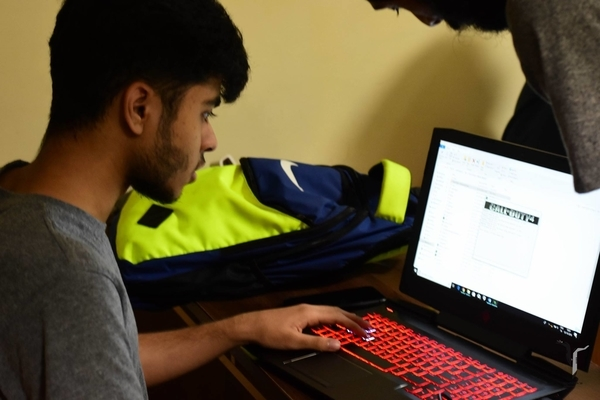
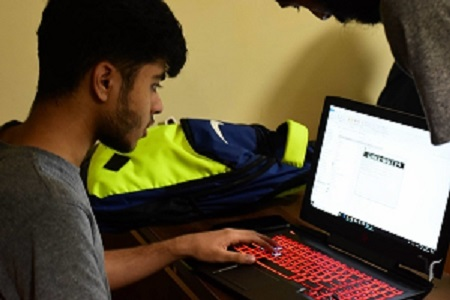
changes, optimisation

diff --git a/index.html b/index.html
@@ -1,14 +1,13 @@
 <html>
-<meta charset="utf-8">
-	<meta http-equiv="X-UA-Compatible" content="IE=edge">
-	<meta name="viewport" content="width=device-width, initial-scale=1.0">
+<meta name="viewport" content="width=device-width, initial-scale=1.0">
+<meta http-equiv="X-UA-Compatible" content="IE=edge">
 <link href="https://fonts.googleapis.com/css?family=Work+Sans:200,700,800&display=swap" rel="stylesheet">
 <title>
 	Arpan Nagar
 </title>
 
 <link rel="stylesheet" type="text/css" href="styles.css">
-<div class="img"> <img src="./me2.jpg" alt="Arpan Nagar" width="400" height="400">
+<div class="img1"> <img src="./me2.jpg" alt="Arpan Nagar" border-radius: 50%>
 </div>
 <body>
 <h1 class="hi"> Hello there.
@@ -17,18 +16,18 @@
 
 
 
-<a href="https://manipal.edu/mit.html" target="_blank">Manipal Institute of Technology, Manipal.</a>
+<a class ="nice" href="https://manipal.edu/mit.html" target="_blank">Manipal Institute of Technology, Manipal.</a>
 <br><br>
-I write and here's my <a href="./resume.pdf" target="_blank"> resume.</a>
+I write and here's my <a class = "nice" href="./resume.pdf" target="_blank"> resume.</a> (Coming soon!)
 </div> 
 
 <div class="footer-social-icons">
     
     <ul class="social-icons">
-        <li><a href="" class="social-icon" target="_blank"> <i class="fa fa-facebook"></i></a></li>
-        <li><a href="" class="social-icon" target="_blank"> <i class="fa fa-twitter"></i></a></li>
-        <li><a href="" class="social-icon" target="_blank"> <i class="fa fa-linkedin"></i></a></li>
-        <li><a href="" class="social-icon" target="_blank"> <i class="fa fa-google-plus"></i></a></li>
+        <li><a href="https://www.facebook.com/arpunagar" class="social-icon" target="_blank"> <i class="fa fa-facebook"></i></a></li>
+        <li><a href="https://twitter.com/arpankkr" class="social-icon" target="_blank"> <i class="fa fa-twitter"></i></a></li>
+        <li><a href="https://www.linkedin.com/in/arpan-nagar-231815152/" class="social-icon" target="_blank"> <i class="fa fa-linkedin"></i></a></li>
+        <li><a href="arpnagar1@gmail.com" class="social-icon" target="_blank"> <i class="fa fa-google-plus"></i></a></li>
     </ul>
 </div>
 
@@ -36,3 +35,4 @@ I write and here's my <a href="./resume.pdf" target="_blank"> resume.</a>
 © Arpan Nagar. 2019. </footer>
 
 </html>
++

diff --git a/styles.css b/styles.css
@@ -1,8 +1,11 @@
 @import url(https://cdnjs.cloudflare.com/ajax/libs/font-awesome/4.6.3/css/font-awesome.css);
+* {
+  box-sizing: border-box;
+}
 
 
 ul {
-	padding-top: 60px;
+    padding-top: 60px;
     padding-left: 70px;
     list-style: none;
 }
@@ -102,63 +105,106 @@ ul.social-icons {
 
 img
 {
-  position: absolute;
-  right: 150px;
-  top: 150px;
-  border-radius: 1000px;
-  width: 350px;
-  height: 350px;
-  
+  float: right;
+  width: 100%;
+  border-radius: 10px;
+  padding-bottom: 20px;
+ 
+
 }
 
 body
 {
-	font-family: 'Work Sans', sans-serif;
+    font-family: 'Work Sans', sans-serif;
 }
 
 h1
 {
-	font-size: 65px;
-	margin-left: 130px;
-	padding-top: 170px;
+    margin-left: 150px;
+    padding-top: 200px;
+    width: 40%;
     letter-spacing: 1.2px;
-	
+    
 }
 
 .intro
 {
-	margin-left: 130px;
-	padding-top: 20px;
-	margin-right: 1000px;
-	padding-right: 20px;
-	padding-left: 20px;
-	padding-bottom: 20px;
-	font-size: 22.5px;
-	text-align: justify;
-	background-color: #e0e0e0;
+    font-size: 22px;
+    width: 30%;
+    margin-top: 20px;
+    margin-left: 150px;
+    margin-bottom: 100px;
+    background-color: #e0e0e0;
 }
 
 footer
 {
-	text-align: center;
-	margin-top: 75px;
+    text-align: center;
+    margin-top: 75px;
 
 }
 
-a:link {
+@media only screen and (min-width: 300px) {
+    .hi{width: 100%;
+        margin-left: 0px;}
+    .intro{width: 100%;
+    margin-left: 0px;}
+    .img1{
+        width: 100%;
+        height: auto;
+        
+        
+        border-radius: 100%;
+    }
+}
+
+@media only screen and (min-width: 800px) {
+    .hi
+{
+    margin-left: 150px;
+    padding-top: 220px;
+    width: 40%;
+    letter-spacing: 1.2px;
+    
+}
+
+.intro
+{
+    font-size: 22px;
+    width: 30%;
+    margin-top: 20px;
+    margin-left: 150px;
+    margin-bottom: 100px;
+    background-color: #e0e0e0;
+}
+
+img
+{
+  float: right;
+  width: 25%;
+  margin-top: 100px;
+  margin-right: 100px;
+  border-radius: 100%;
+
+}
+    }
+
+
+
+a.nice:link {
   color: black;
 }
 
 /* visited link */
-a:visited {
+a.nice:visited {
   color: black;
 }
 
 /* mouse over link */
-a:hover {
+a.nice:hover {
   color: grey;
 }
 
 /* selected link */
-a:active {
+a.nice:active {
   color: blue;
